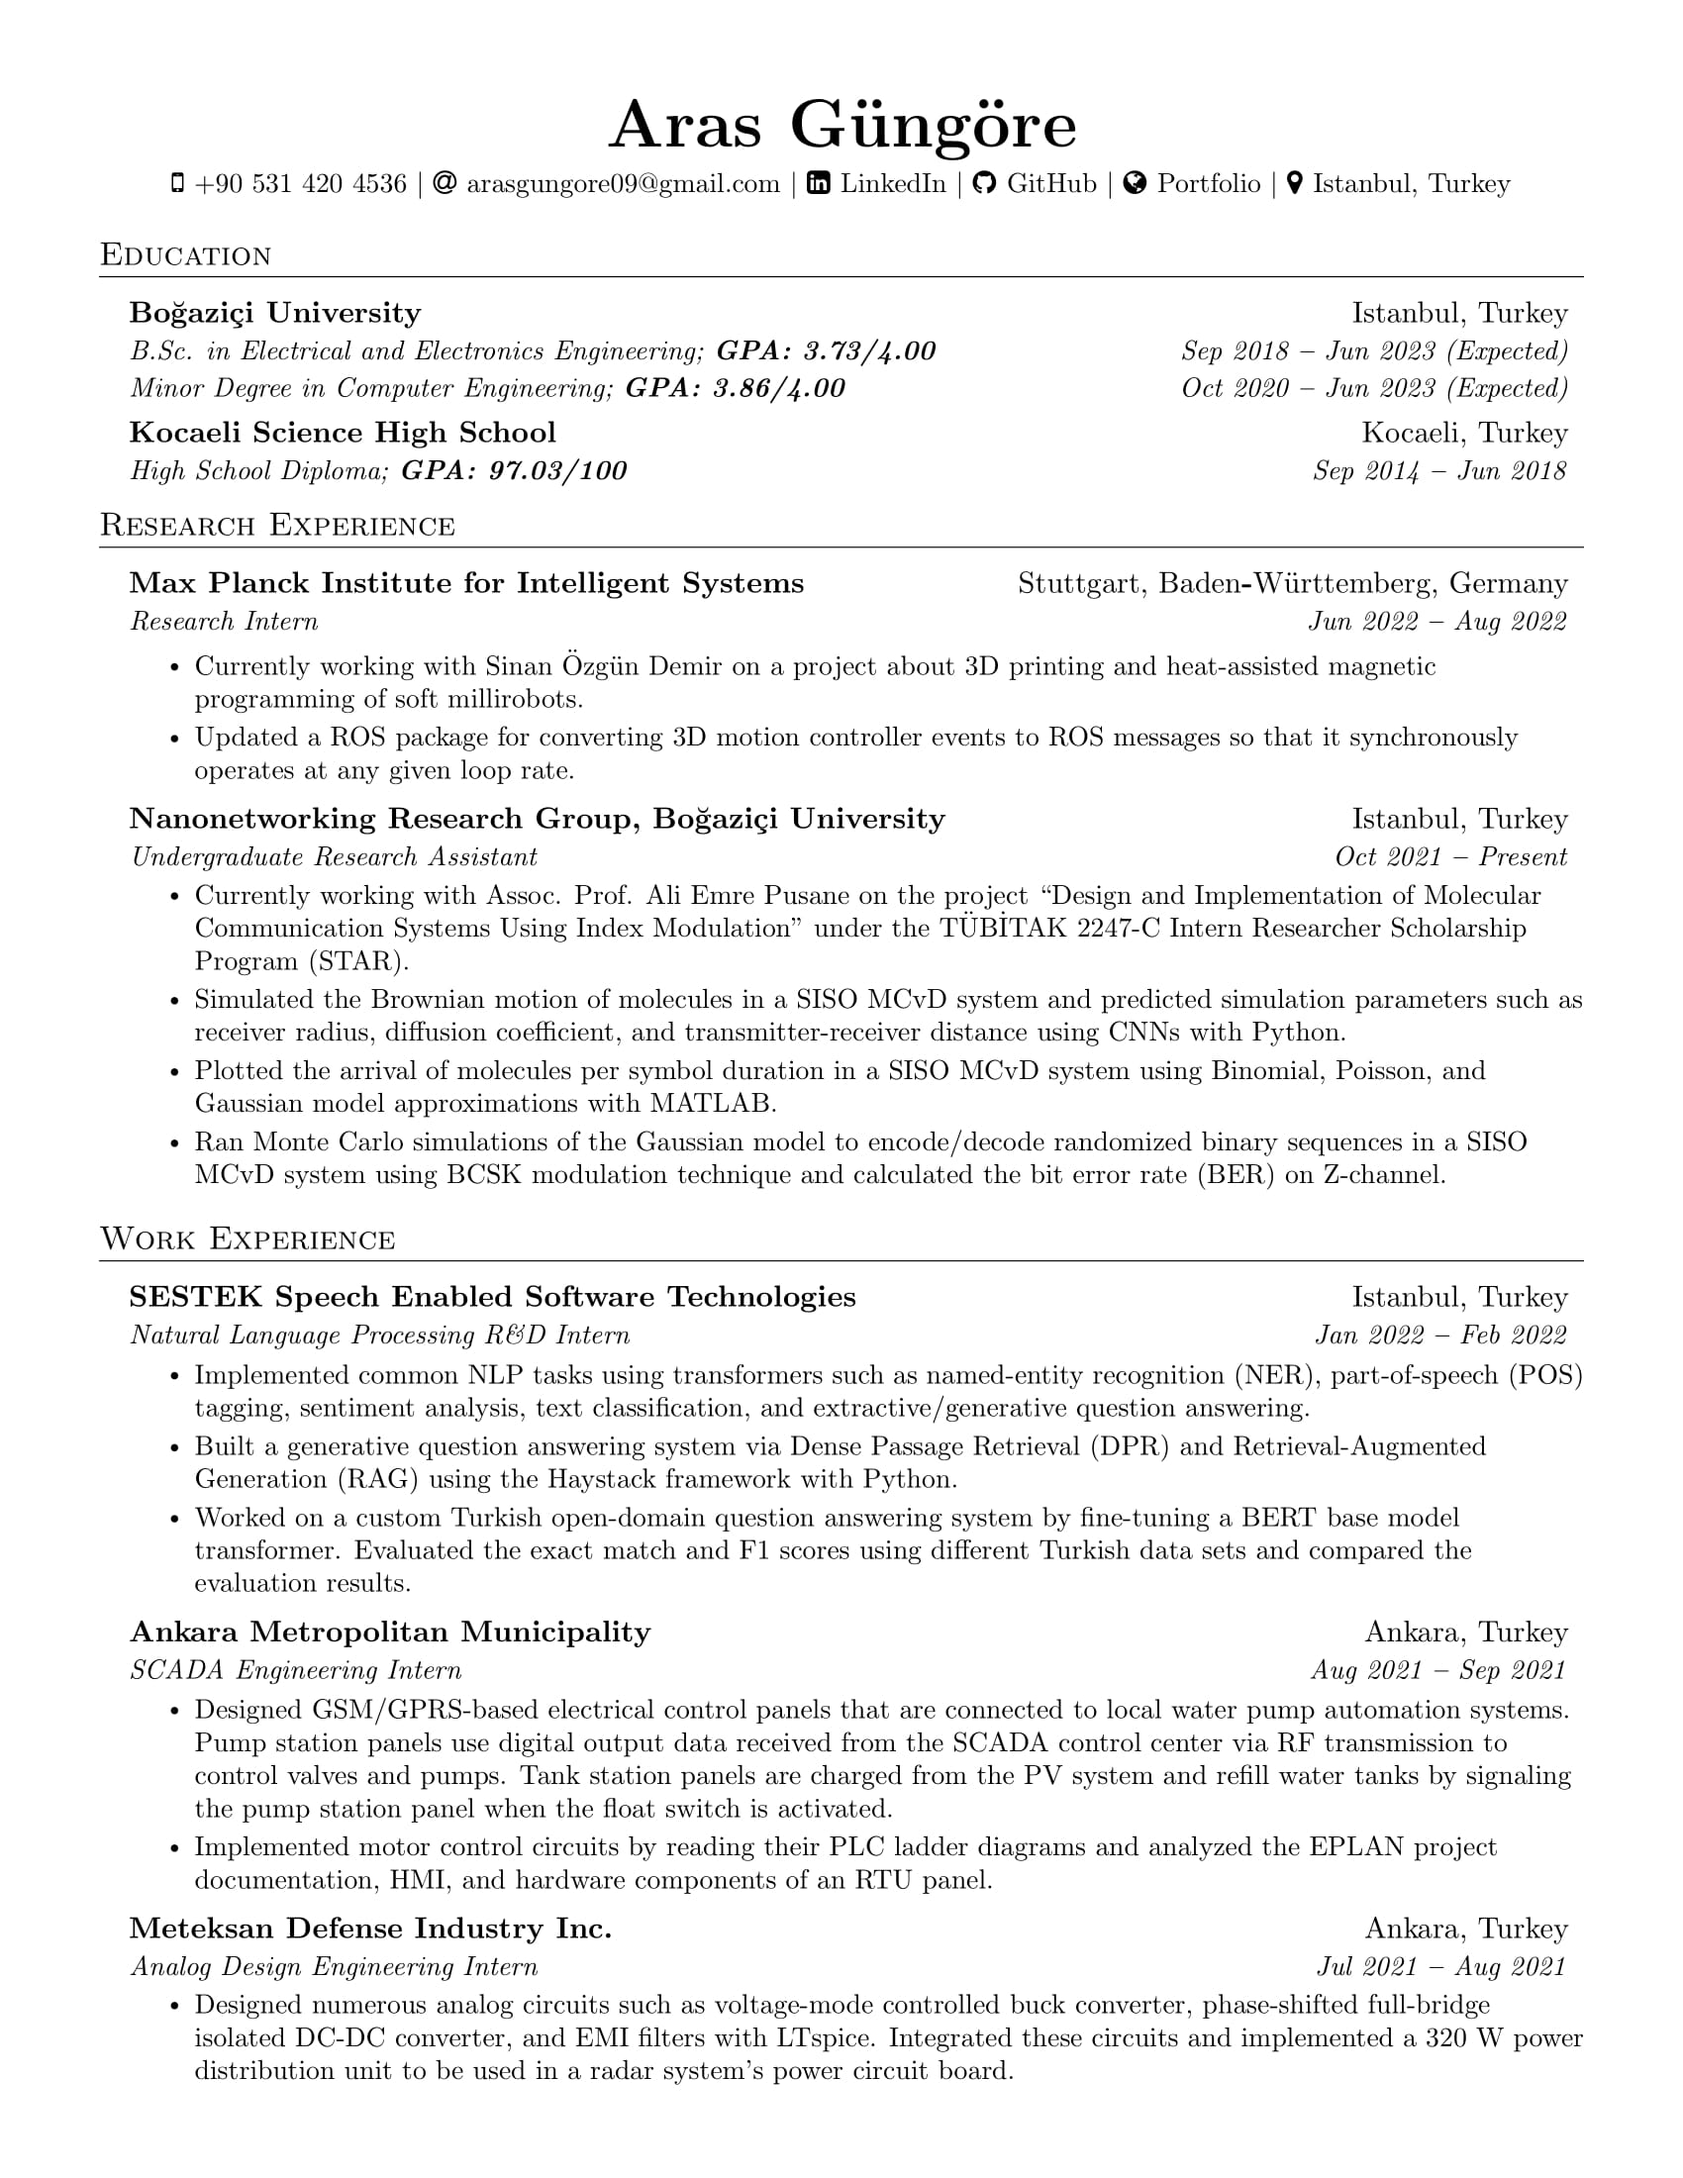
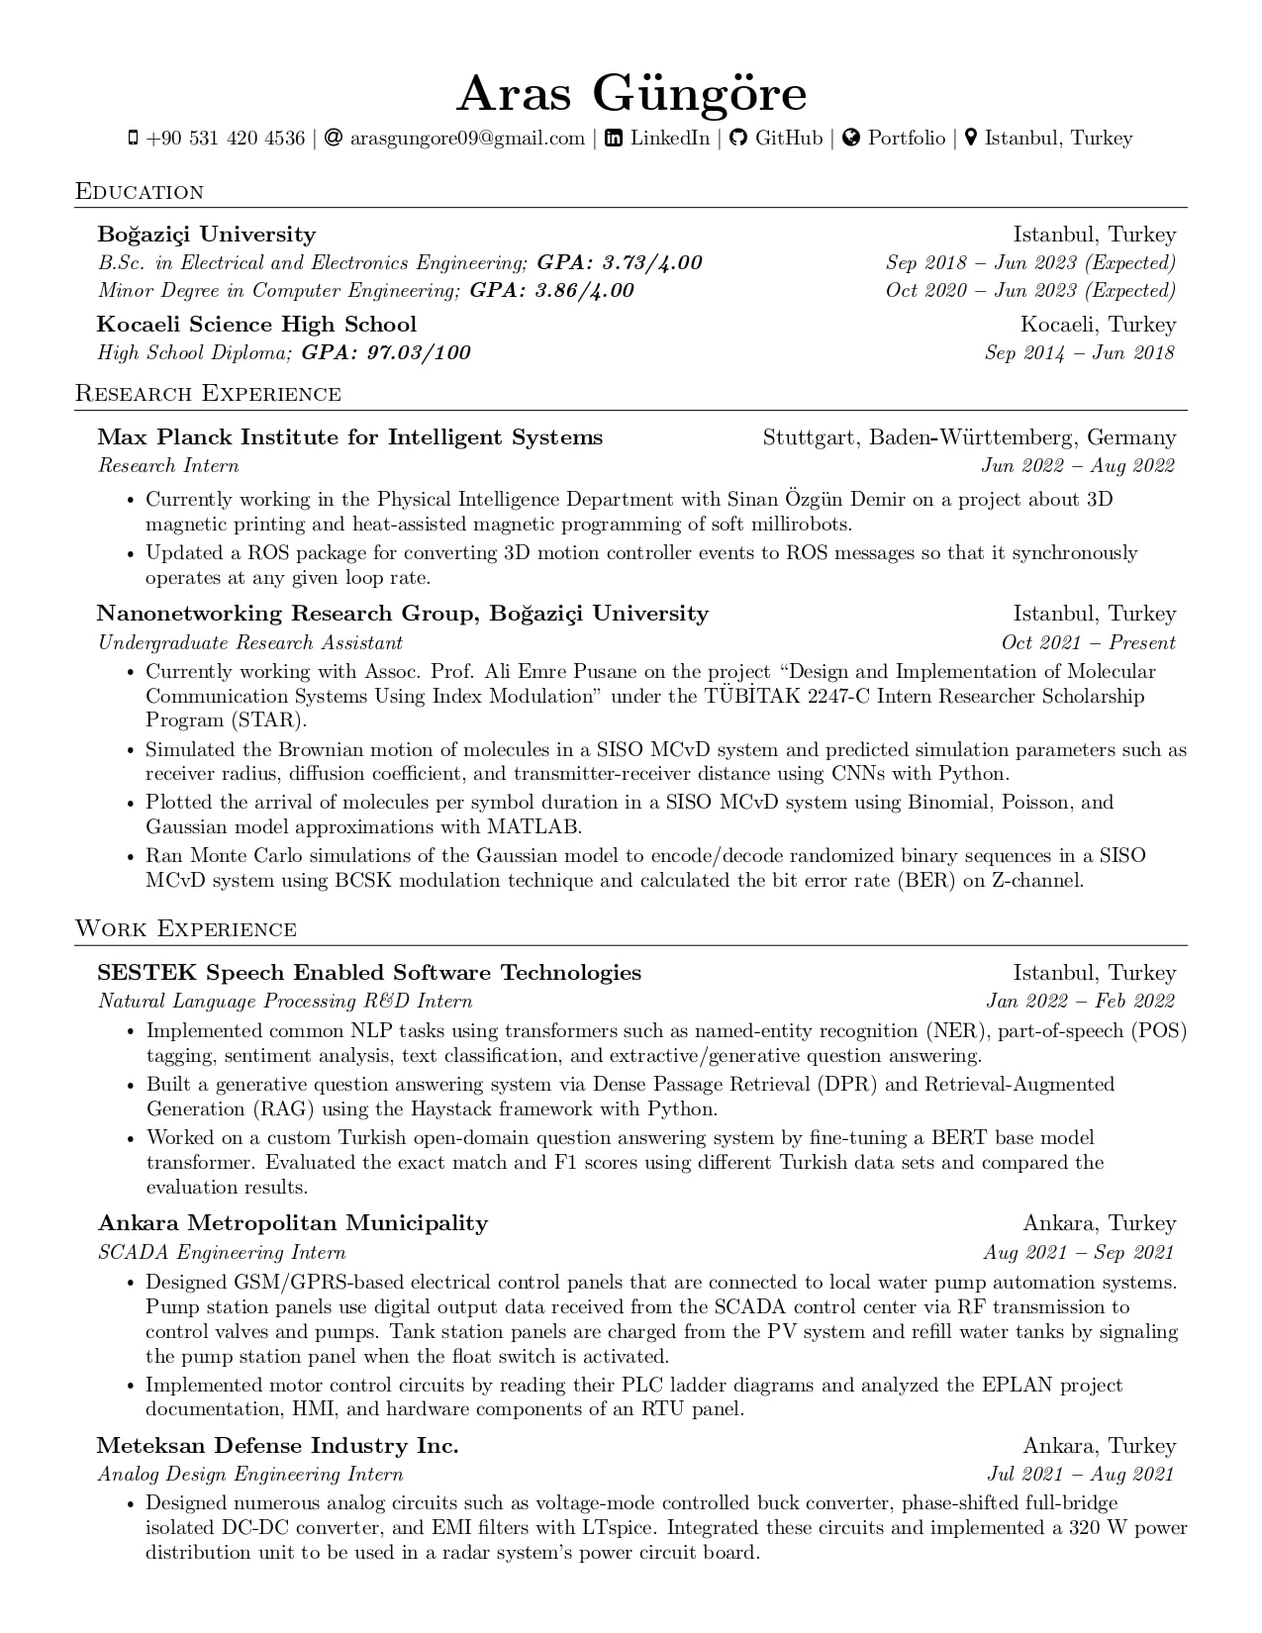
Updated CV

diff --git a/main.tex b/main.tex
@@ -185,7 +185,7 @@
       {Max Planck Institute for Intelligent Systems}{Stuttgart, Baden\textbf{-}Württemberg, Germany}
       {Research Intern}{Jun 2022 \textbf{--} Aug 2022}
         \resumeItemListStart
-            \resumeItem{Currently working with Sinan Özgün Demir on a project about 3D printing and heat-assisted magnetic programming of soft millirobots.}
+            \resumeItem{Currently working in the Physical Intelligence Department with Sinan Özgün Demir on a project about 3D magnetic printing and heat-assisted magnetic programming of soft millirobots.}
             \resumeItem{Updated a ROS package for converting 3D motion controller events to ROS messages so that it synchronously operates at any given loop rate.}
         \resumeItemListEnd
     
